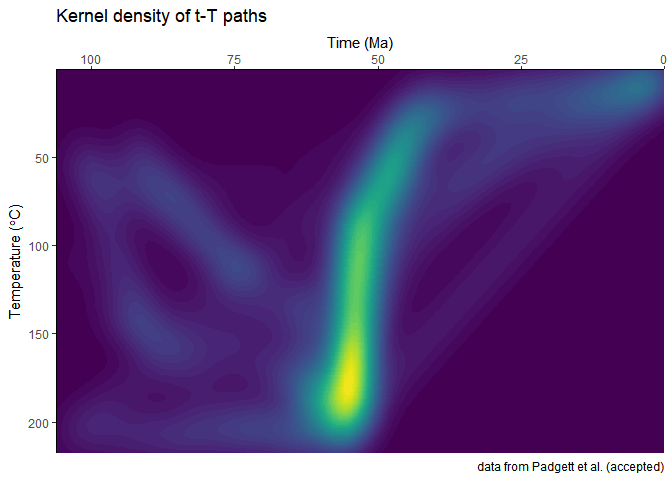
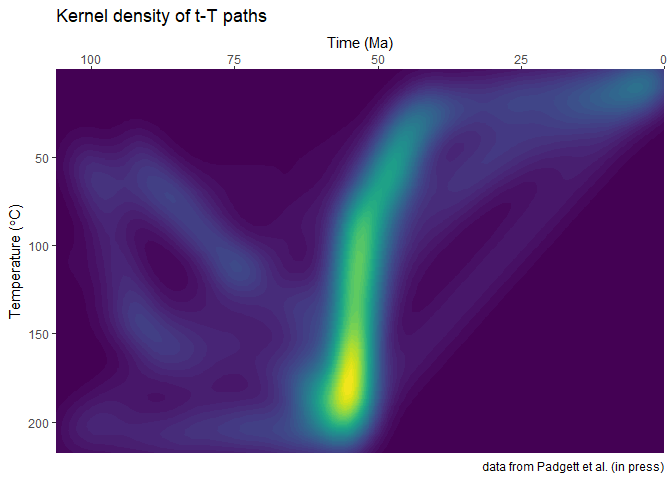
moved all cluster functions to {thermochron}

Changed region(s): [[0.7188, 0.9375, 1.0, 1.0]]

diff --git a/README.md b/README.md
@@ -9,7 +9,7 @@
 <!-- badges: end -->
 
 Density plots derived from HeFTy inverse thermal history models as used
-in Padgett et al. (accepted) and Johns-Buss et al. (submitted).
+in Padgett et al. (in press) and Johns-Buss et al. (submitted).
 
 ## Prerequisites
 
@@ -19,14 +19,14 @@ command line prompt:
 
 ``` r
 # install.packages("remotes") # install if needed
-remotes::install_github("tobiste/HeFTy.SmoothR")
+remotes::install_github("padgett/HeFTy_SmoothR")
 ```
 
 The format requirements for the import data are described in the
 detailed walkthrough:
 
 ``` r
-vignette('hefty_smoothr', package = "HeFTy.SmoothR")
+vignette('hefty_smoothr', package = "HeFTy_SmoothR")
 ```
 
 The following code provides a minimal working example to demonstrate the
@@ -43,11 +43,10 @@ tT_paths <- read_hefty_xlsx(path2myfile)
 plot_path_density_filled(tT_paths) +
   labs(
     title = "Kernel density of t-T paths",
-    caption = "data from Padgett et al. (accepted)",
+    caption = "data from Padgett et al. (in press)",
     x = "Time (Ma)",
     y = bquote("Temperature (" * degree * "C)")
   ) +
-  theme_classic() +
   coord_cartesian(expand = FALSE) +
   scale_x_continuous(transform = "reverse", position = "top") +
   scale_y_continuous(transform = "reverse") +
@@ -76,9 +75,8 @@ If you use this package in your research, please cite the following:
 
 Padgett, J., Enkelmann, E., Kellett, D., Moynihan, D., and Stephan, T.
 “Cenozoic exhumation and fault reactivation in southeastern Yukon
-constrained by low-temperature thermochronology”. accepted for
-publication in *Canadian Journal of Earth Sciences*. DOI:
-10.1139/cjes-2024-0147.
+constrained by low-temperature thermochronology”. *Canadian Journal of
+Earth Sciences* (in press). DOI: 10.1139/cjes-2024-0147.
 
 ## Feedback, issues, and contributions
 
